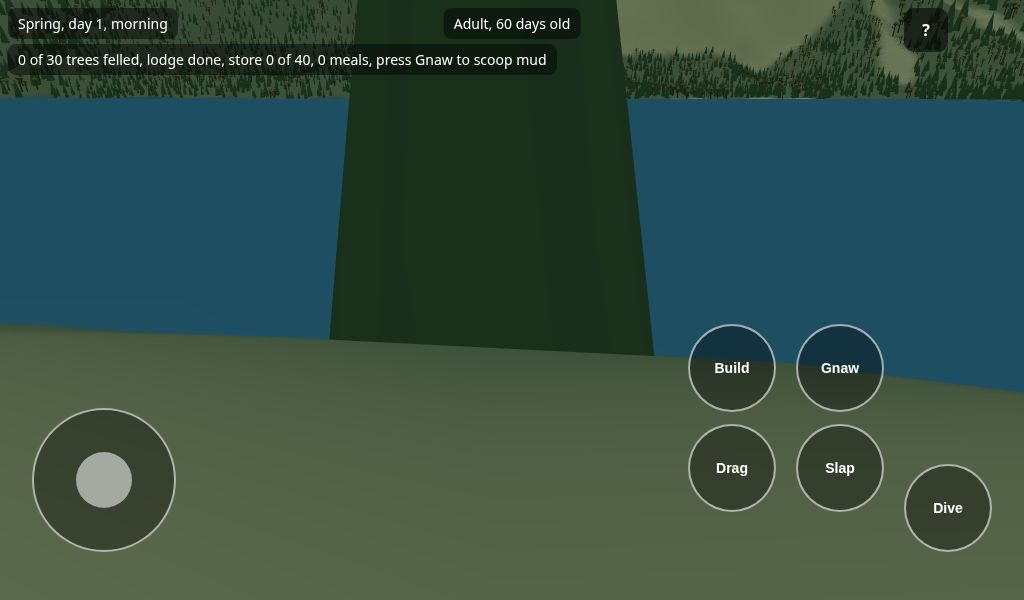
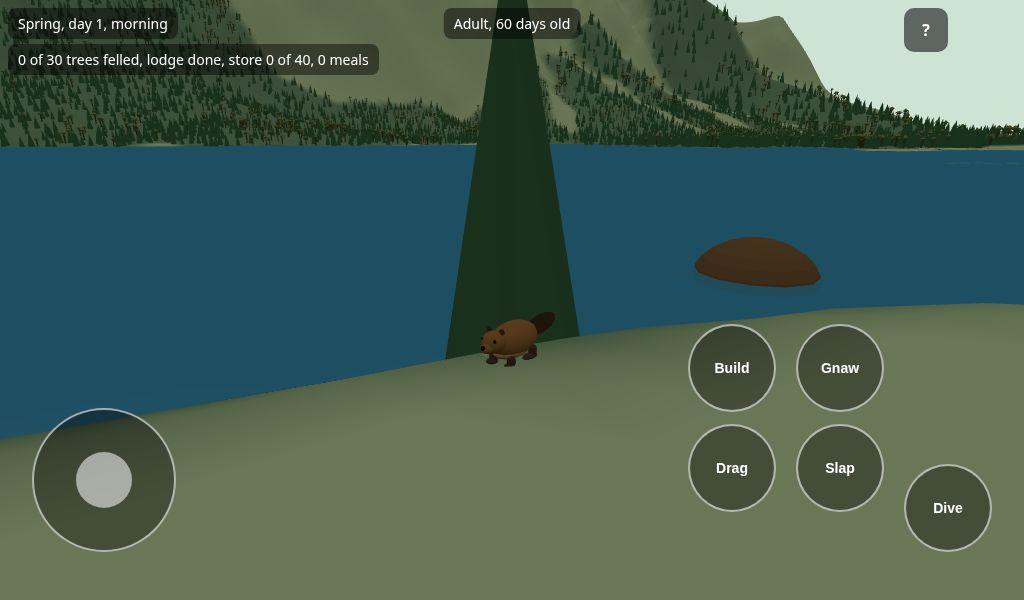
test: retake the manual pictures with better camera angles

diff --git a/tests/e2e/manual-shots.spec.ts b/tests/e2e/manual-shots.spec.ts
@@ -1,3 +1,4 @@
+/* eslint-disable @typescript-eslint/no-explicit-any */
 import { test } from '@playwright/test';
 import { dragLog, fellNearestTree, goToNearestSpot, hasTiles, startGame, tap, walkToPoint, world } from './helpers';
 // Takes the pictures for the manual (public/manual/*.jpg) from the real valley, in a tablet sized window. It does nothing
@@ -14,7 +15,27 @@ test.describe('pictures for the manual', () => {
   const take = async (page: import('@playwright/test').Page, name: string): Promise<void> => {
     const hide = await page.addStyleTag({ content: 'button[aria-label="Test menu"]{visibility:hidden !important}' });
     await page.screenshot({ path: `${DIR}/${name}.jpg`, type: 'jpeg', quality: 80 });
-    await hide.evaluate((el) => el.remove());
+    await hide.evaluate((el) => (el as Element).remove());
+  };
+
+  // Place the camera for a picture: `side` radians round from straight behind the beaver, tilted down by `pitch`, `dist` metres out.
+  // The default view looks past the beaver at whatever it stands in front of, so a tree or a log would hide it.
+  // With `toward` the camera is turned from the line to that point (a tree or a log) instead of from the way the beaver faces,
+  // which is only where it last walked. A quarter turn then puts the beaver and the thing side by side.
+  const frame = async (page: import('@playwright/test').Page, side: number, pitch: number, dist: number, toward?: { x: number; z: number }): Promise<void> => {
+    await page.evaluate(
+      ([s, p, d, t]) => {
+        const g = (window as any).__game;
+        const v = g.view();
+        const b = g.world().beaver;
+        const bearing = t ? Math.atan2((t as any).x - b.x, (t as any).z - b.z) : b.heading;
+        v.yaw = bearing + Math.PI + (s as number);
+        v.pitch = p as number;
+        v.dist = d as number;
+      },
+      [side, pitch, dist, toward ?? null] as const,
+    );
+    await page.waitForTimeout(600);
   };
 
   test('the screen, a tree, a log, a ring and a pond', async ({ page }) => {
@@ -30,31 +51,33 @@ test.describe('pictures for the manual', () => {
       return g.nearestTree(b.x, b.z, 120);
     });
     if (tree) {
-      await walkToPoint(page, tree, 2.2, 40_000);
+      // The trunk is about 2 m across at the foot, so a beaver at the tree's centre is hidden inside it: this picture is taken
+      // from a little short of it. (There is no picture of the gnawing itself for the same reason: the beaver ends up at the trunk.)
+      await walkToPoint(page, tree, 3.4, 40_000);
       await page.waitForTimeout(500);
+      await frame(page, 0, 0.3, 8, tree);
       await take(page, 'tree');
-      await tap(page, 'KeyE');
-      await page.waitForFunction(() => (window as any).__game.world().chop !== null, null, { polling: 100, timeout: 5000 }).catch(() => undefined);
-      await page.waitForTimeout(1500);
-      await take(page, 'gnaw');
     }
     const id = await fellNearestTree(page);
     if (id) {
+      const logAt = (await world(page)).logs.find((l: any) => l.id === id);
       await page.waitForTimeout(800);
+      await frame(page, 0.9, 0.3, 9, logAt);
       await take(page, 'log');
       await dragLog(page, id);
-      await page.waitForTimeout(500);
+      await frame(page, Math.PI / 2, 0.45, 9);
       await take(page, 'drag');
     }
 
     const spot = await goToNearestSpot(page);
-    await page.waitForTimeout(1500);
+    await frame(page, Math.PI / 2, 0.5, 8);
     await take(page, 'ring');
     void spot;
     await page.getByRole('button', { name: 'Test menu' }).click();
     await page.locator('button[data-action="dam-fill"]').click();
     await page.getByRole('button', { name: 'Test menu' }).click();
     await page.waitForTimeout(4000);
+    await frame(page, Math.PI / 2, 0.5, 8);
     await take(page, 'pond');
     console.log('dams', (await world(page)).dams.length);
   });
